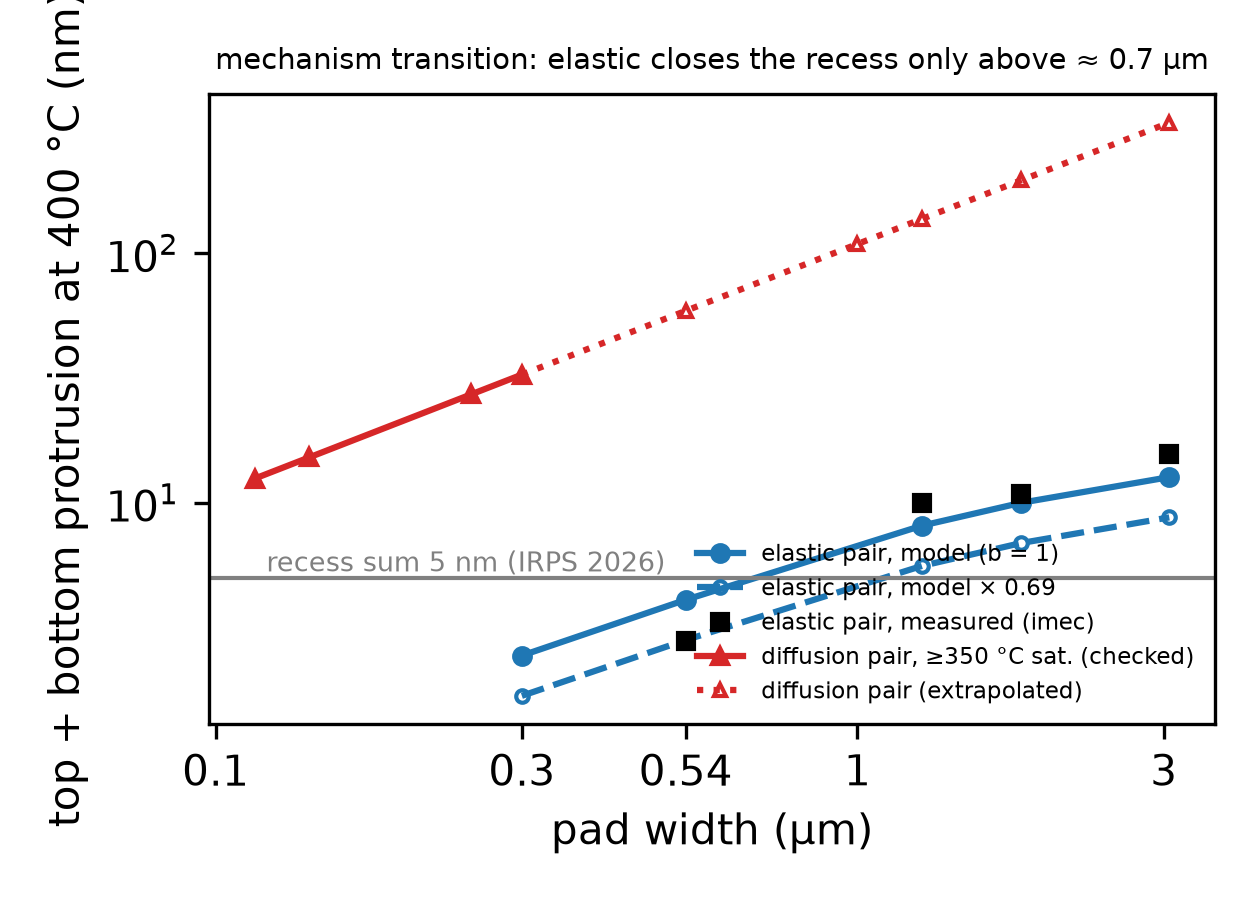
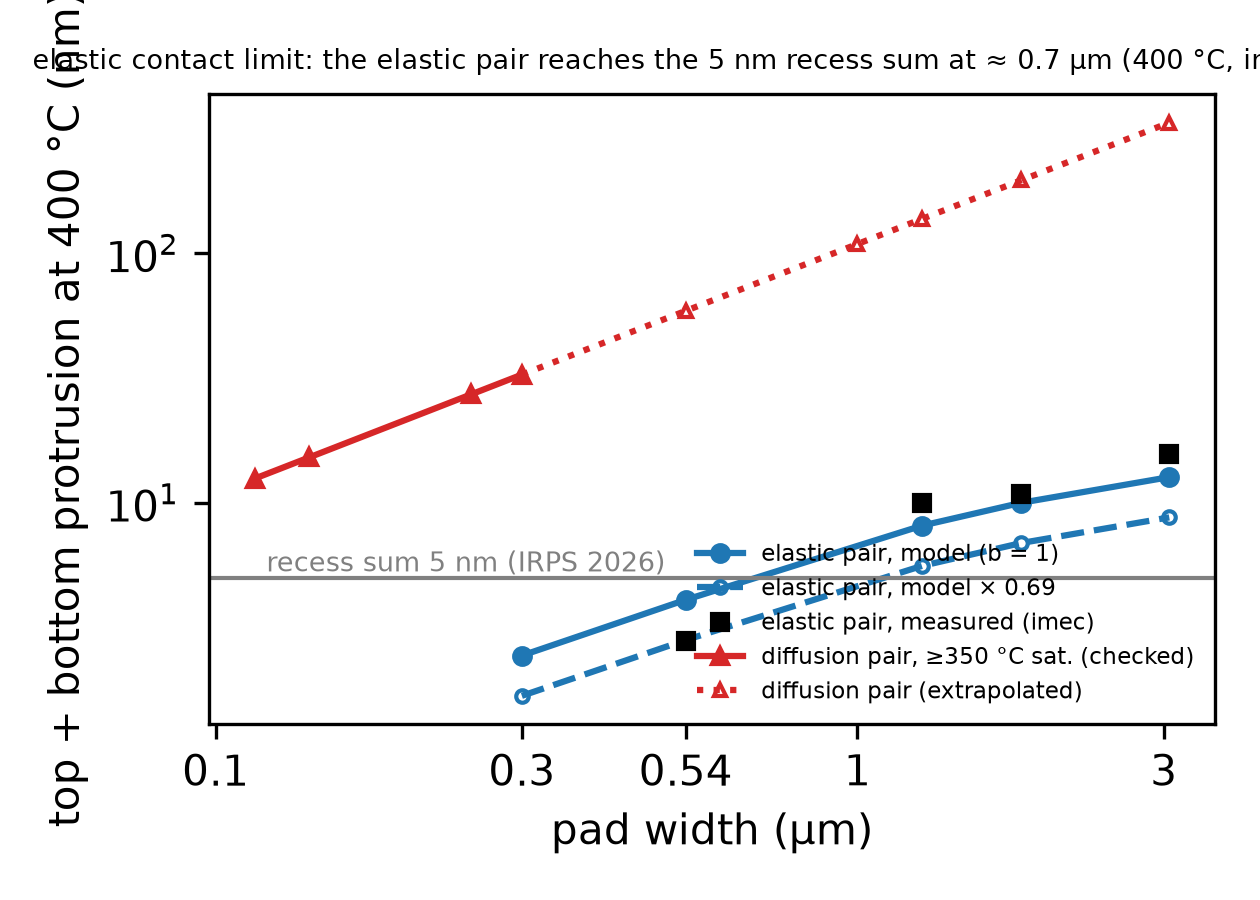
Paper draft v4 and consistency corrections: 0.7 um = elastic contact limit (crossover is an extrapolated prediction), same-setting interface matrix, f(omega) variant set with probability vs worst-orientation windows, diffusion counts corrected (5/5 PPA, 8/9), beta=1/4 rejection recorded; corrections

Changed region(s): [[0.031, 0.0311, 1.0, 0.0933]]

diff --git a/src/stage2/stage2_paper_results.py b/src/stage2/stage2_paper_results.py
@@ -95,7 +95,7 @@ def main():
     ax.axhline(RECESS_SUM, color="gray", lw=1); ax.text(0.12, RECESS_SUM + 0.3, "recess sum 5 nm (IRPS 2026)", fontsize=6.5, color="gray")
     ax.set_xscale("log"); ax.set_yscale("log"); ax.set_xlabel("pad width (µm)"); ax.set_ylabel("top + bottom protrusion at 400 °C (nm)")
     ax.set_xticks([0.1, 0.3, 0.54, 1, 3]); ax.set_xticklabels(["0.1", "0.3", "0.54", "1", "3"]); ax.minorticks_off()
-    ax.legend(fontsize=5.5, frameon=False, loc="lower right"); ax.set_title("mechanism transition: elastic closes the recess only above ≈ %.1f µm" % D_el_meas, fontsize=7)
+    ax.legend(fontsize=5.5, frameon=False, loc="lower right"); ax.set_title("elastic contact limit: the elastic pair reaches the 5 nm recess sum at ≈ %.1f µm (400 °C, imec data)" % D_el_meas, fontsize=6.5)
     fig.tight_layout(); fig.savefig(FIG / "s2_mechanism_transition.png", dpi=300); plt.close(fig)
     fig, axs = plt.subplots(1, 2, figsize=(7, 2.9), sharey=True)
     for ax, surf, title in zip(axs, ("clean", "oxidised"), ("clean surface (main)", "surface oxide not controlled")):

diff --git a/docs/paper/ieie2026f_plan_and_draft_ko.md b/docs/paper/ieie2026f_plan_and_draft_ko.md
@@ -6,16 +6,22 @@
 
 공고에는 배점이 없다. 블라인드 서면 심사 + 구두 발표 합산이므로 4쪽 안에서 (1) 문제가 왜 중요한지 한 문단, (2) 무엇이 새로운지 세 줄, (3) 방법의 신뢰성(검증 절차), (4) 정량 결과와 그림, (5) 한계를 숨기지 않는 태도가 읽혀야 한다. 학부생 경진대회 수상작은 대개 "작지만 끝까지 검증된 결과 + 좋은 그림 + 분명한 기여 문장"이다. 우리 강점은 **사전등록(결과를 보기 전에 기준 커밋)으로 검증한 공학 모델**이라는 점과, 반도체 패키징의 현안(200–400 nm 피치 하이브리드 본딩)을 다룬다는 점. 약점은 "검증 실패가 많다"는 인상 — 이를 "지배 기구가 바뀐다는 증거"로 재배치하는 것이 포장의 핵심이다.
 
-## 1. 핵심 메시지 — v3 (2026-10-16, 에이전트 라운드 통합 후)
+## 1. 핵심 메시지 — v4 (2026-10-16, 정합성 라운드 후; 10/19 제출본 기준)
 
-선행연구가 이미 말한 것: "sub-µm에서는 bulge-out이 접촉을 만든다"(imec), "[111] 기준 recess 사양"(Ayoub). 우리가 더한 것은 **세 그룹의 실측을 하나의 사전등록 모델로 교차 시험해 얻은 네 가지 정량 결론**이다.
+**연구 질문.** 패드별 결정방위를 모르는 실제 공정에서, 열탄성과 표면확산을 함께 고려한 Cu–Cu 접촉 조건은 어디까지 안정적으로 판정할 수 있는가?
 
-**핵심 메시지.** "문헌 물성 열탄성 FEM + 실측 점검 표면확산 항을 사전등록 V&V로 교차 시험하면, (1) 접합 계면 조건에서 접촉 기구는 패드 폭 ≈ 0.7 µm(recess 합 5 nm; 3→8 nm에서 0.55→1.0 µm)에서 열탄성→표면확산으로 넘어가고, 탄성 항은 구속 계수 C(h/w) 한 곡선으로 모든 공정·크기에 대해 ±20 %로 예측된다(사전등록 통과); (2) 측벽·캡 계면 상태는 공정 입력이다 — imec·NYCU 돌출은 접합을 요구하고, ST/Leti 공정은 두 독립 관찰(Ayoub 300 nm 변형률 부호, Lhostis 두께 효과)이 모두 이완 계면을 가리킨다(held-out 폭 규칙 통과); (3) sub-µm에서 결정 방위는 탄성 항(폭 4 %)이 아니라 표면확산 항(<111> facet)을 통해 들어오며, 300 nm의 P ≥ 0.99 공정창은 어닐이 아니라 <111> 꼬리 모양이 정한다(대립 Cu 미접촉 하한 10⁻³–10⁻², fg-Cu 0); (4) 확산 항의 유효 활성화에너지는 문헌 저온값 13 kcal/mol이며(마스터 커브), 등크기 패드 항은 cavity/pad ≤ 0.5 구조로 전이되지 않는다(held-out 0/7) — 적용 범위는 등크기 접합이다."
+**핵심 메시지.** "문헌 물성 열탄성 FEM과 실측으로 점검한 표면확산 항을 사전등록 V&V로 시험하면, 300 nm 패드의 어닐 조건은 (A) 탄성만으로 접촉, (B) 확산이 있어야 접촉하며 모든 모델 불확실성에서 유지, (C) 모델·꼬리 가정에 따라 판정이 갈림의 세 영역으로 나뉜다. 접합 계면에서 (A)는 비어 있고(탄성 접촉 한계 ≈ 0.7 µm), 청정 표면 250 °C·2 h, 300 °C ≥ 30 min, ≥ 350 °C는 (B)다. 다만 이것은 균일 방위 확률 기준이며, 방위 분포 가정을 빼고 최악 방위로 보면 결론은 측정되지 않은 한 값 — 정확히 <111>인 패드의 bulge-out f(0) — 에 달려 있다."
 
-세 가지 기여(서론 끝):
-1. **교차 검증된 결합 모델과 두 설계 규칙.** 열탄성 FEM(NYCU·imec 돌출로 학습·테스트, 측벽 판별)과 표면확산 항(imec 2026 bulge-out)을 결과 보기 전 기준으로 테스트했다. 설계 규칙 ①: 전환 폭 = f(recess 합) — 3/5/8 nm에서 0.55/0.70/1.0 µm. 설계 규칙 ②: 탄성 돌출 u = C(h/w, E_d)·Δα·ΔT·h, C = c₀/[1 + a(E_d/E_Cu)(h/w)^1.5] — 미사용 기하 4개에서 ±20 % 통과(X35–X38, 사전등록). 0.54 µm의 −35 %는 어떤 탄성 인자(라이너 두께 포함, X30–X34)로도 안 나오는 고립 이상점.
-2. **계면 상태 = 공정 입력.** 접합 모델은 Lhostis의 폭 효과(110 vs 330 nm, held-out 통과)를, 이완 계면은 두께 효과(650 nm 닫힘/220 nm void)와 Ayoub 300 nm 부호를 준다. imec·NYCU는 접합, ST/Leti는 이완 — 같은 모델, 다른 계면 입력. 가설이지만 세 데이터셋이 한 방향이다.
-3. **300 nm 설계값과 그 한계.** 공정창(청정 250 °C × 2 h / 300 °C × 30 min; b·τ₀·Q 불확실 빗금), CMP recess 허용 합 7.5–11.5 nm, 방위 하한(대립 Cu 1.4 × 10⁻³…, fg-Cu 0 → 체인 길이 상한 ≈ 500 링크), 인자 순위. 확산 항은 ≥ 250 °C·등크기에서만 실측 일치(Q_eff 13 kcal/mol, 250 °C × 7.9 h ≡ 350 °C × 1 h), 200 °C·불균등 패드는 범위 밖.
+**두 경계를 구분한다.**
+- 탄성 접촉 한계: u_t + u_b = r_t + r_b. 400 °C·recess 합 5 nm에서 imec 실측 기준 ≈ 0.70 µm(3/8 nm → 0.55/1.0 µm). 지금까지 "기구 전환"이라 부른 0.7 µm는 이것이다.
+- 기여도 역전: h_t + h_b = u_t + u_b. 확산 진폭(∝ D)과 동역학(τ ∝ D^3.7)이 경쟁해 어닐 조건에 따라 0.74 µm(250 °C 2 h)–2.45 µm(400 °C 2 h)로 예측되지만, 확산 데이터는 D ≤ 300 nm뿐이므로 **외삽 예측**이다. 300 nm에서는 어느 확산 형태로도 확산 돌출이 탄성의 약 20배다(350 °C 1 h: 쌍 31–33 vs 1.6 nm).
+
+**기여 세 가지(서론 끝).**
+1. **탄성 접촉 한계의 정량 규칙과 대리식.** 두 그룹(NYCU·imec) 돌출 실측으로 학습·테스트한 열탄성 FEM에서, 탄성 접촉 한계를 recess 조건부 규칙으로 제시했다(400 °C, 3/5/8 nm → 0.55/0.70/1.0 µm). 등방(Hill) 탄성 돌출은 구속 계수 대리식 C(h/w)가 imec·NYCU 적층의 미사용 기하 4개에서 ±20 % 안에 들었다(사전등록). 0.54 µm 실측(측정/모델 0.61–0.69, 전 온도)은 이 곡선 밖의 고립점이며, 라이너 두께 가설까지 시험해 탄성 기하 인자로는 설명되지 않음을 보였다.
+2. **계면 조건을 하나의 설정으로 평가.** ST/Leti 공정의 네 정성 관측(Ayoub 3 µm·300 nm 변형률 부호, Lhostis 폭·두께 효과)을 같은 설정으로 평가하면 "측벽 미끄럼 + 캡 하중 비전달"만 넷을 모두 만족하고 접합은 둘을 실패한다. imec·NYCU 돌출은 같은 미끄럼 설정에서 1.7–3.5배 과대예측해 접합을 요구한다. 따라서 Cu–라이너 측벽 계면 상태는 공정별 입력이며, ST/Leti의 이완은 정성 관측 넷과 일관한 **후보 가설**이다(패드 10 기울기 40 % 과소 등 정량 불일치는 남음).
+3. **방위 미지 조건의 공정창: 확률 기준과 최악 방위 기준.** DM2026 분포의 판독 가능한 범위(누적 ≥ 0.5 %)와 일관된 방위 함수 f(ω) 4종 × 탄성 계수 b × 확산 동역학 τ₀·Q의 모든 조합에서 위 (B) 9셀이 유지되고 5셀은 판정이 갈린다. 최악 방위 기준은 방위 분포 가정만 제거하며, f(0) = 0이면 어떤 어닐로도 최악 쌍은 닫히지 않고(허용 recess 0.5–0.9 nm/패드), f(0) = 0.25이면 300 °C·2 h 또는 350 °C·30 min 이상에서 닫힌다. 확률 기준 허용 recess는 3.5–9 nm/패드다. **f(0)의 측정이 방위 위험을 확정하는 다음 실험**이다.
+
+**주장하지 않는 것.** 기구 역전의 실측 검증, Ayoub 300 nm 변형률 크기 재현, 확산 항 검증 통과(사전등록 시험 3회 모두 NOT VALIDATED, 적용 범위 = 등크기 패드·≥ 250 °C), 관측 범위 아래 꼬리·f(0), "검증된 레시피".
 
 ## 2. 논문 구성 (프로시딩 ≤ 5쪽 / 서면 심사용 4쪽)
 
@@ -24,7 +30,7 @@
 | 요약 | 한국어 요약 150–200자 + 영문 제목 | — |
 | I. 서론 | 피치 스케일링(200 nm, imec 2026) → 탄성 팽창 sub-nm → 접촉 기구 문제. 선행연구 역할 분담(Ayoub 변형률, Lin/Chen 돌출, imec bulge-out, Van Huylenbroeck recess·수율)과 빈 자리(세 요소를 한 공정창으로 묶어 검증한 연구 없음). 기여 3개. | Fig. 1 모델 구조·V&V 흐름 |
 | II. 모델과 검증 절차 | 2.1 용어(recess/u/ε′zz/h_d)와 접촉 조건 m = u_t+u_b+h_t+h_b−(r_t+r_b). 2.2 열탄성 FEM(ANSYS, 이방성 Cu, 접합 측벽, 배열 셀, 공정별 유전체 1회 학습). 2.3 표면확산 항 h_d = s_ox·0.0022(θ_eff−90°)·D·f(ω)·[1−e^(−t/τ)], τ ∝ D^3.7/Ds(T), f(ω) facet 모델. 2.4 ASME V&V 10 순서와 사전등록(train/test 분할, 통과 기준, 커밋 해시) | Table 1 데이터와 역할 |
-| III. 결과 | 3.1 탄성 모델 train/test(Table 2) + 측벽 판별 + 0.54 µm 실패 → 기구 전환(Fig. 2). 3.2 확산 항 test(Fig. 3): 고정형 2/17 → 개정 11/17, ≥250 °C 10/10, 방위 항으로 IQR 10/17. 3.3 Ayoub 변형률(3 µm 부호 일치, 300 nm 크기 일치·부호 반대 → 계면 가설 한 문장). 3.4 300 nm 공정창(Fig. 4), recess 허용 사양(Fig. 5), 인자 순위·방위 하한(Fig. 6), 연결 단계 접촉면적·압력 한 문단 | Fig. 2–6, Table 2–3 |
+| III. 결과 | 3.1 탄성 모델 train/test(Table 2) + 측벽 판별 + 0.54 µm 실패 → 탄성 접촉 한계(Fig. 2). 3.2 확산 항 test(Fig. 3): 고정형 2/17 → 개정 11/17, ≥250 °C 10/10, 방위 항으로 IQR 10/17. 3.3 Ayoub 변형률(3 µm 부호 일치, 300 nm 크기 일치·부호 반대 → 계면 가설 한 문장). 3.4 300 nm 공정창(Fig. 4), recess 허용 사양(Fig. 5), 인자 순위·방위 하한(Fig. 6), 연결 단계 접촉면적·압력 한 문단 | Fig. 2–6, Table 2–3 |
 | IV. 한계와 결론 | 검증된 것/안 된 것/탐색 표(Table 3), 한계 6개, 결론 3줄 | Table 3 |
 | 참고문헌 | 영문 15편 | — |
 
@@ -47,49 +53,47 @@
 | Table 2 | 탄성 모델 train/test 결과: 크기, T, 모델, 측정, 허용, 통과 | `validation_rev1.csv`, adopted_rev.json | |
 | Table 3 | 모델 부분별 상태: 검증 통과 / 실패 / 탐색, 근거 커밋 | 보고서 §14 | |
 
-## 4. 원고 초안 — 프로시딩용 (한국어 본문, 영문 그림·표·참고문헌)
+## 4. 원고 초안 — 프로시딩용 (한국어 본문, 영문 그림·표·참고문헌) — v4
 
-**제목(국문):** 서브마이크론 Cu 하이브리드 본딩 패드의 접촉 기구 전환과 300 nm 공정창 예측: 사전등록 검증 기반 열탄성–표면확산 모델
-**Title:** Mechanism Transition and 300 nm Process-Window Prediction for Sub-Micron Cu Hybrid-Bonding Pads: A Pre-Registered Thermo-Elastic/Surface-Diffusion Model
+**제목(국문):** 결정방위를 모르는 서브마이크론 Cu 하이브리드 본딩의 접촉 판정: 열탄성 접촉 한계와 표면확산을 고려한 300 nm 공정창의 사전등록 검증
+**Title:** Contact Prediction for Sub-Micron Cu Hybrid Bonding under Unknown Crystal Orientation: Elastic Contact Limit and a Pre-Registered Thermo-Elastic/Surface-Diffusion Process Window at 300 nm
 
-**요약.** Cu/유전체 하이브리드 본딩의 패드 피치가 1 µm 아래로 줄면 어닐 중 Cu 열탄성 팽창이 패드당 1 nm 수준으로 작아져 CMP recess(패드당 2–3 nm)를 닫지 못한다. 본 논문은 문헌 물성만으로 구성한 ANSYS 열탄성 FEM과 표면확산 bulge-out 해석식을 결합한 모델을 ASME V&V 10-2019 순서(수치 검증–학습–테스트–예측)로 평가하되, 모든 테스트 기준을 결과를 보기 전에 공개 저장소에 커밋(사전등록)하였다. 열탄성 모델은 서로 다른 두 연구그룹의 1–3 µm 패드 돌출 실측을 nm 단위로 재현하고 측벽 계면이 접합 상태임을 판별했으나, 0.54 µm에서는 전 온도에서 +46 % 과대예측하여 연속체 탄성이 지배 기구에서 벗어남을 보였다(전환 크기 ≈ 0.7 µm). 결정 방위 의존 진폭을 갖는 표면확산 항은 imec의 115–300 nm 패드 bulge-out 분포를 250 °C 이상에서 재조정 없이 재현했고(중앙값 10/10, 분포 폭은 방위 항이 있어야 재현), 200 °C 큰 패드에서는 과소예측하여 보수적이다. 이 모델로 300 nm 패드의 접촉 확률 공정창(청정 표면 250 °C·2 h 또는 300 °C·30 min), CMP recess 허용 합(7.5–11.5 nm), <111> 방위에 의한 미접촉 쌍 하한(≈1.4 × 10⁻³)과 인자 순위를 불확실도와 함께 제시한다.
+**요약.** Cu/유전체 하이브리드 본딩에서 패드가 작아지면 어닐 중 열탄성 돌출만으로는 CMP recess를 닫지 못하고 표면확산 bulge-out이 접촉을 만든다. 본 논문은 문헌 물성으로 구성한 ANSYS 열탄성 FEM과 표면확산 해석식을 결합하고, ASME V&V 10 순서로 모든 테스트 기준을 결과 계산 전에 공개 저장소에 커밋하여 평가하였다. 접합 계면에서 위·아래 탄성 돌출 합이 recess 합 5 nm를 넘는 최소 패드 폭(탄성 접촉 한계)은 400 °C에서 약 0.7 µm이며, 등방 탄성 돌출의 구속 계수 대리식은 미사용 형상 4개에서 ±20 % 안에 들었다. ST/Leti 공정의 정성 관측 넷은 측벽 미끄럼·캡 하중 비전달 설정에서만 모두 일관되어, 계면 상태를 공정별 입력으로 두어야 함을 보였다. 판독 가능한 bulge-out 분포와 일관된 방위 함수와 모델 불확실성 전체에서, 300 nm 패드는 청정 표면 250 °C·2 h, 300 °C·30 min 이상에서 접촉 확률 0.99 이상을 유지하나, 최악 방위 기준의 결론은 측정되지 않은 <111> 패드의 bulge-out에 의존한다.
 
 ### I. 서론
 
-웨이퍼 간(W2W) Cu/SiCN 하이브리드 본딩은 200 nm 피치까지 전기적 수율이 보고되었다[1]. 이 영역에서는 접합 후 어닐 중 Cu 패드의 열탄성 팽창이 패드 부피에 비례해 줄어 1 nm 이하가 되며, 상·하 패드의 Cu–Cu 접촉은 표면확산에 의한 Cu 원자의 재배치("bulge-out")가 만든다[2,3]. 따라서 1 µm 아래에서는 "어떤 recess에서 닫히는가"가 아니라 "어떤 어닐·표면·라이너·방위 조건에서 닫히는가"가 공정 설계 질문이 된다.
+웨이퍼 간(W2W) Cu/SiCN 하이브리드 본딩은 200 nm 피치까지 전기적 수율이 보고되었다[1]. 패드가 작아지면 어닐 중 Cu의 열탄성 팽창은 1 nm 수준으로 줄고, 상·하 패드의 접촉은 표면확산에 의한 Cu 원자의 재배치(bulge-out)가 만든다[2,3]. 이때 공정 설계 질문은 "어느 recess에서 닫히는가"에서 "어떤 어닐·표면 조건에서, 패드마다 다른 결정방위를 모르는 채로, 얼마나 확실히 닫히는가"로 바뀐다.
 
-본 논문은 어닐 중 Cu 패드가 위로 솟는 양을 두 기구의 합으로 본다. (i) 열탄성 팽창 u: Cu와 유전체·Si의 열팽창 차이로 생기며 패드 부피에 비례하고, 식으면 되돌아간다. (ii) 표면확산 bulge-out h_d: 표면에너지·응력 구배를 줄이려고 Cu 원자가 패드 가장자리에서 중앙으로 이동해 생기며 어닐 온도·시간·표면 상태·결정 방위에 의존하고, 되돌아가지 않는다. 접촉 조건은 두 기구의 위·아래 합이 recess 합을 넘는 것이다. 두 기구는 패드 크기에 다르게 반응하므로, 어느 쪽이 접촉을 결정하는지가 크기에 따라 바뀐다 — 이 전환을 정량화하는 것이 본 연구의 출발점이다.
+본 논문은 어닐 중 Cu 패드가 솟는 양을 두 기구의 합으로 본다. (i) 열탄성 돌출 u: Cu와 유전체·Si의 열팽창 차이로 생기며 측벽 구속에 크게 좌우되고, 식으면 되돌아간다. (ii) 표면확산 bulge-out h_d: 표면에너지 구배를 줄이려 Cu 원자가 패드 중앙으로 이동해 생기며 어닐 온도·시간·표면 상태·결정 방위에 의존하고, 되돌아가지 않는다. 접촉 여유는 m = u_t + u_b + h_d,t + h_d,b − (r_t + r_b)이며, 두 경계를 구분한다: 탄성 접촉 한계(u_t + u_b = r_t + r_b)와 기여도 역전(h_d,t + h_d,b = u_t + u_b).
 
-선행연구는 역할이 나뉘어 있다. Ayoub 등[4]은 300 nm 패드의 Laue 미세회절 편차 변형률과 COMSOL 해석으로 결정 방위에 따른 탄성 차이를 보였고, Lin·Chen 등[5,6]은 in-situ AFM으로 1–9 µm 패드의 돌출을 직접 쟀으며, imec[2,3,7]은 접합 후 상부 웨이퍼를 제거하고 수천 개 패드의 bulge-out 분포를 AFM·EBSD로 측정했다. 그러나 열탄성·표면확산·연결 단계를 하나의 공정창으로 묶고, 그 모델의 각 부분을 독립 실측으로 검증한 연구는 없다. 또한 기존 FEM은 벌크 물성으로 sub-µm 실측을 재현하지 못한다는 보고가 있다[8].
+선행연구는 역할이 나뉘어 있다. Ayoub 등[4]은 300 nm 패드의 Laue 편차 변형률로 방위에 따른 탄성 차이를, Lin·Chen 등[5,6]은 in-situ AFM으로 1–9 µm 패드 돌출을, imec[2,3,7]은 수천 개 패드의 bulge-out 분포와 방위(EBSD)를 측정했다. Lhostis 등[12]은 같은 ST/Leti 계열 공정에서 패드 폭·두께에 따른 계면 닫힘을 HRTEM으로 보였다. 그러나 이 관측들을 하나의 모델 설정으로 함께 평가하고, 방위를 모르는 조건에서 접촉 판정이 어디까지 안정한지를 정량화한 연구는 없다.
 
-본 연구는 (1) 문헌 물성만으로 구성한 ANSYS 열탄성 FEM을 두 연구그룹의 돌출 실측으로 학습(train)·테스트(test)하고, (2) 표면확산 항에 결정 방위 의존 진폭을 도입하여 imec 2026 bulge-out 분포로 테스트하며, (3) 그 결과로 300 nm 패드의 공정창을 접촉 확률로 예측한다. 모든 테스트 기준(파라미터, 데이터 분할, 통과 규칙)은 결과를 보기 전에 공개 저장소에 커밋하였고, 테스트 데이터로의 재조정은 하지 않았다. 기여는 다음 세 가지다. ① 세 연구그룹의 실측으로 교차 검증한 결합 모델에서, 접촉 기구가 열탄성에서 표면확산으로 넘어가는 폭을 recess 조건부 규칙으로 정량화했다(recess 합 3/5/8 nm에서 0.55/0.70/1.0 µm). ② sub-µm에서 결정 방위의 효과는 탄성 항(폭 4 %)이 아니라 표면확산 항(<111> facet, 폭 10배)을 통해 들어오며, 이 항이 imec bulge-out 분포의 폭과 꼬리를 재조정 없이 재현함을 보였다 — 방위 위험은 Ayoub가 제안한 recess 사양이 아니라 어닐·미세구조로 다뤄야 한다. ③ 300 nm 공정창, CMP recess 허용 사양, 방위에 의한 미접촉 하한과 인자 순위를 불확실도와 함께 제시하고, 탄성 모델의 0.54 µm 오차가 이 결론을 바꾸지 않음을 보였다.
+기여는 세 가지다. ① 열탄성 FEM을 두 그룹의 돌출 실측으로 학습·테스트해 탄성 접촉 한계를 recess 조건부 규칙으로 제시하고(400 °C, recess 합 3/5/8 nm → 0.55/0.70/1.0 µm), 등방 탄성 대리식 C(h/w)를 미사용 형상으로 검증했다. ② ST/Leti의 네 정성 관측을 같은 계면 설정으로 평가해, 측벽 미끄럼·캡 하중 비전달 설정만 모두와 일관함을 보이고 계면 상태를 공정별 입력으로 두었다. ③ 관측 분포와 일관된 복수의 방위 함수와 모델 불확실성 전체에서 300 nm 공정창을 "유지되는 영역"과 "판정이 갈리는 영역"으로 나누고, 확률 기준과 최악 방위 기준을 함께 제시했다.
 
 ### II. 모델과 검증 절차
 
-**2.1 용어와 접촉 조건.** recess r는 CMP 후 Cu 윗면이 유전체 면보다 낮은 깊이(공정 입력), u는 어닐 중 열탄성 돌출(모델 출력), h_d는 표면확산 bulge-out 높이(패드 자기 표면 기준), ε′zz는 Laue가 재는 편차 탄성 변형률이다. 상·하 패드가 닿는 조건은 접촉 여유 m = u_t + u_b + h_d,t + h_d,b − (r_t + r_b) ≥ 0 이며, 방위와 recess를 확률 변수로 두고 P(m ≥ 0)을 Monte Carlo로 계산한다(Fig. 1).
+**2.1 용어와 접촉 조건.** recess r(CMP 후 Cu 윗면이 유전체 면보다 낮은 깊이, 입력), u(열탄성 돌출, 중앙 50 % 면적 평균 − 주변 유전체), h_d(bulge-out, 패드 자기 표면 기준), ε′zz(Laue 편차 탄성 변형률)를 섞지 않는다. 방위와 recess를 확률 변수로 두고 P(m ≥ 0)를 Monte Carlo로 계산하며(표본 수는 수치 해상도이지 데이터가 아니다), 방위 분포 가정을 뺀 최악 방위 최소 여유 m_min도 함께 계산한다.
 
-**2.2 열탄성 FEM.** ANSYS MAPDL(µMKS). 원형 Cu 패드, 측벽 테이퍼, Ta 라이너 링·바닥, 유전체, Si 기판등가층. 작은 패드(≤0.54 µm)는 3D SOLID185(O-grid)에 Cu 탄성상수 C11/C12/C44 = 168.4/121.4/75.4 GPa를 결정 방위로 회전한 이방성, 큰 다결정 패드는 2D 축대칭 Hill 등방(128 GPa, 0.345). α_Cu = 16.5 ppm/K. 측벽은 접합(절점 공유)을 기본으로 하고 미끄럼(법선만 구속)을 대조군으로 둔다. 셀은 배열 피치(2D 등면적 2.26 w) 또는 고립 12 w. "같은 모델"의 뜻: 물리 규칙·Cu 물성·경계조건·메시 규칙은 모든 시료에 같고, 형상·라이너·유전체 종류·피치·열이력만 시료별 입력이다. 유전체 E·α는 공정당 한 번, 큰 패드에서만 문헌 범위 안에서 학습한다(NYCU SiO2 59 GPa·1.0 ppm/K·테이퍼 18°, imec SiCN 120 GPa·2.0 ppm/K). 돌출 u는 중앙 50 % 면적 평균 − 주변 유전체 평균(AFM 정의와 동일). 수치 검증: 단위(해석해와 자릿수 일치), 이방성 12방위 1 % 안, 메시 ×2 0.02 %, 셀 수렴, 3D–2D 0.1–0.7 %.
+**2.2 열탄성 FEM.** ANSYS MAPDL. 원형 Cu 패드, 라이너 링·바닥층, 유전체, Si 기판등가층. 작은 패드는 3D(입방 탄성텐서를 결정 방향으로 회전한 이방성 Cu), 큰 다결정 패드는 2D 축대칭 Hill 등방. 계면 조건 두 가지: 접합(절점 공유)과 미끄럼(Cu 측벽 절점을 복제해 라이너와 법선 변위만 묶음 — 접선 무마찰·무분리; 라이너–유전체는 항상 접합). 미끄럼은 측벽 전단 비전달 경계조건이며 박리·손상을 모사한 것이 아니다. 같은 물리 규칙·Cu 물성·경계조건·메시 규칙을 모든 시료에 쓰고, 형상·라이너·유전체·피치·열이력만 시료별 입력이다. 유전체 E·α는 공정당 한 번, 큰 패드에서만 학습한다(NYCU SiO2 59 GPa·1.0 ppm/K, imec SiCN 120 GPa·2.0 ppm/K).
 
-**2.3 표면확산 항.** DM2024[7]의 선형화를 따라 패드당
-h_d = s_ox · 0.0022·(θ_eff − 90°)·D · f(ω) · [1 − exp(−t/τ)], τ = τ₀ (D/200 nm)^3.7 · D_s(350 °C)/D_s(T) ... (1)
-D는 패드 지름, t 어닐 시간, D_s는 Cu 표면확산계수(Q = 20.7 kcal/mol[9]), τ₀ = 60 s, s_ox는 표면 산화 배율(청정 1, 산화 0.45[2]). 방위 의존 진폭 f(ω) = clip((ω − ω_c)/Δω, 0, 1)은 패드 법선과 가장 가까운 <111> 사이 각 ω로 정의한다: fcc Cu에서 {111}이 최저 표면에너지라 <111> 패드는 평평한 면을 유지해 곡률 구동력을 잃는다[3]. Cu 표면확산계수의 방위 이방성은 (111)이 (100)보다 1.5–3배 빠른 쪽이므로[9] 꼬리는 동역학이 아니라 진폭으로 넣는다.
+**2.3 표면확산 항.** DM2024[7]의 선형화를 따라 h_d = s_ox·0.0022(θ_eff − 90°)·D·f(ω)·[1 − exp(−t/τ)], τ = τ₀(D/200 nm)^3.7·D_s(350 °C)/D_s(T) ... (1). D 패드 지름, s_ox 표면 산화 배율(청정 1, 산화 0.45[2]), f(ω)는 패드 법선과 최근접 <111> 사이 각 ω의 방위 함수다({111}이 최저 표면에너지라 <111> 근방 패드는 곡률 구동력이 작다[3]). f(ω)는 관측 분포와 일관된 4종(계단·완만 경사·바닥값 0.25·Fig. 5a형 비관 계단)을 함께 쓴다.
 
-**2.4 검증 절차와 사전등록.** ASME V&V 10-2019 순서를 따랐다. 학습 데이터는 큰 패드(NYCU 9·3 µm[5], imec 1.80·3.06 µm[2]), 테스트는 imec 1.26·0.54 µm, NYCU 1 µm[5,6], 미끄럼 대조군(V4)이다. 확산 항은 imec 2026[3]의 400 nm 피치·350 °C 한 점에서 진폭만 학습하고 나머지 17점(피치 200–500 nm, 200–450 °C, 1–4 h)으로 테스트했다(점별 허용 max(1.5 nm, 25 %, 판독 오차), ≥80 % 통과 + 온도 경향 + 350 °C 이상 포화). 방위 항은 EBSD가 있는 500 nm 피치에서 학습하고 나머지로 테스트했다(데이터를 이미 본 뒤의 2차 탐색으로 표기). 각 규칙은 결과 계산 전에 git 커밋으로 고정했고(Table 1), 테스트 실패 시 문서화된 개정 1회만 허용했다.
+**2.4 검증 절차와 사전등록.** 학습은 큰 패드(NYCU 9·3 µm, imec 1.80·3.06 µm), 테스트는 imec 1.26·0.54 µm, NYCU 1 µm, 미끄럼 대조군이다. 확산 항은 imec 2026 400 nm 피치·350 °C 한 점에서 진폭만 학습하고 나머지 17점으로, 이후 미사용 DM2023 7점으로 테스트했다. 계면 조건은 ST/Leti 관측 넷을 같은 설정으로 평가하는 규칙을 먼저 고정했다. 모든 규칙은 계산 전 git 커밋으로 고정했고, 테스트 실패 시 문서화된 개정 1회만 허용했다(Table 1).
 
 ### III. 결과
 
-**3.1 열탄성 모델: 학습·테스트와 기구 전환.** Table 2에 결과를 요약했다. 학습값은 모두 문헌 범위의 끝(bound-limited)이었다. 테스트에서 NYCU 1 µm(모델 1.79–1.94 vs 실측 2.1 ± 0.4 nm)와 imec 1.26 µm 100–200 °C, 1.80 µm 전 온도는 통과했고, 미끄럼 측벽 대조군은 1 µm에서 1.7배, 0.54 µm에서 3.5배 과대예측하여 측벽이 접합 상태임이 판별되었다. 그러나 imec 0.54 µm는 100–400 °C 전 구간에서 측정/모델 비 0.61–0.69로 과대예측했다(비열적 오차; 단일 기하 가설 ≤7 %, 측정 정의 가설로도 모든 크기 동시 설명 불가). 사전 고정한 기준에 따라 탄성 모델은 0.54 µm에서 NOT VALIDATED로 동결했다. 탄성 결과 전체(FEM 167런, 실측 19점)는 구속 계수 C = u/[(α_Cu − α_Si)ΔT·h]가 종횡비 h/w의 한 함수 C = c₀/[1 + a(E_d/E_Cu)(h/w)^1.5](배열 셀 c₀ 1.95, a 2.2)로 붕괴하고, 사전등록한 미사용 기하 4개(X35–X38)에서 ±20 % 안에 들어 대리식으로 쓸 수 있다; 0.54 µm 실측만 곡선에서 이탈한다(측정/모델 0.61–0.69, 전 온도). 라이너 두께 15·25 nm(X30–X34)는 u를 바꾸지 않아(+0.3 %) 마지막 탄성 가설도 닫혔다. 이 결과를 recess와 함께 놓으면 기구 전환이 드러난다(Fig. 2). 절차는 다음과 같다: recess 합을 IRPS 2026 실측 평균 5 nm[10]로 고정하고, 크기별 열탄성 돌출 u를 공정 상한 400 °C에서 취해(실측: imec in-situ 0.54/1.26/1.80/3.06 µm; 모델: 같은 크기의 FEM), 위·아래 합 2u가 5 nm를 넘는 최소 크기를 log(크기) 보간으로 구한다. 실측 기준 ≈0.7 µm(0.54 µm에서 2.8 nm, 1.26 µm에서 10 nm 사이), 모델 기준 0.66 µm(b = 1)–1.06 µm(b = 0.69)이다. 그 아래에서는 공정 상한 온도에서도 탄성만으로는 접촉이 안 되며(300 nm, 400 °C: 패드당 ≈1 nm, 틈의 1/5), 실제로 200–400 nm 피치 본딩이 성립하는 것[1]은 다른 기구(표면확산)가 틈을 메운다는 뜻이다. 전환 크기는 recess 합과 어닐 온도의 함수이며(recess가 작거나 온도가 높으면 작아짐), 여기서는 그 기준 조건에서의 값이다.
+**3.1 탄성 모델과 탄성 접촉 한계.** 학습값은 모두 문헌 범위의 끝이었다. 테스트에서 NYCU 1 µm(모델 1.79–1.94 vs 실측 2.1 ± 0.4 nm), imec 1.80 µm 전 온도, 1.26 µm 100–200 °C가 통과했고, 미끄럼 대조군은 1 µm에서 1.7배, 0.54 µm에서 3.5배 과대예측해 이 두 공정의 측벽은 접합으로 판별되었다(Table 2). imec 0.54 µm는 100–400 °C 전 구간에서 측정/모델 0.61–0.69로 과대예측했다(온도 무관; 단일 기하 가설 ≤ 7 %, 라이너 15·25 nm는 u 불변). FEM 167런과 실측 19점은 구속 계수 C = u/[(α_Cu − α_Si)ΔT·h]가 종횡비의 한 함수 C = c₀/[1 + a(E_d/E_Cu)(h/w)^1.5]로 모이고, 이 대리식은 사전등록한 미사용 형상 4개에서 ±20 % 안에 들었다(Hill 등방, imec·NYCU 적층). 0.54 µm 실측만 곡선 밖에 있다. recess 합 5 nm[10]로 고정하고 400 °C 돌출의 위·아래 합이 그것을 넘는 최소 폭을 구하면 실측 기준 0.70 µm(0.54 µm 2.8 nm와 1.26 µm 10 nm 사이의 log 보간), 대리식 기준 0.76 µm이다(Fig. 2). 이 한계는 recess와 온도의 함수다: 400 °C에서 recess 합 3/8 nm → 0.55/1.0 µm, recess 합 5 nm에서 350/300/250 °C → 0.90/1.14/1.62 µm(대리식). 300 nm에서 탄성 돌출은 400 °C에서도 패드당 ≈ 1 nm로 recess 합의 1/5이다. 기여도 역전 폭은 식 (1)을 300 nm 밖으로 외삽해야 하므로 예측으로만 제시한다: 250 °C 2 h 0.74 µm, 350 °C 1 h 1.38 µm, 400 °C 2 h 2.45 µm.
 
-**3.2 표면확산 항 테스트와 유효 활성화에너지.** 고정형(θ = 123°, τ₀ 학습)은 17점 중 2점만 통과했다: 학습점(350 °C 1 h)이 동역학적으로 포화 상태라 진폭 오차가 τ₀로 잘못 흡수된 탓이다. 문서화된 개정 1(진폭 θ_eff 학습, τ₀ 60 s 고정)에서 θ_eff = 113.6°, 11/17 통과, 온도 경향 통과, 포화 비 경계 실패로 규칙상 NOT VALIDATED이나, 실패 6점은 모두 200 °C·D ≥ 250 nm 또는 자가 어닐 Cu의 **과소예측**이고 250 °C 이상 PPA-Cu 전 점과 ≤140 nm 패드 200 °C는 10/10 통과했다(Fig. 3). 즉 식 (1)은 250 °C 이상에서 실측과 맞고 200 °C에서는 보수적이다(측정의 2 h→4 h 증가율로 추정한 유효 활성화에너지 14–17 kcal/mol은 문헌 20.7보다 작다). 방위 항을 넣은 2차 탐색(θ_eff 119°, ω_c 5°, Δω 19.5°)은 중앙값 통과율을 바꾸지 않지만 분포 폭(IQR)을 10/17 재현하고 lagging tail(< 6.5 nm) 분율 8 %(실측 ≈ 10 %)를 준다 — 방위가 없는 모델의 IQR은 0이다. 사후 분석(마스터 커브): PPA-Cu 10점은 h = a·D·[1 − exp(−t_eff/τ₀)]에 Q_eff = 13.4 kcal/mol(CI 12.5–14.8; Butrymowicz 집계의 저온 전계방출값 13과 일치)로 한 곡선에 붕괴하고(rms 0.49 nm < 판독 오차 0.70), 등가 규칙 350 °C × 1 h ≡ 300 °C × 2.6 h ≡ 250 °C × 7.9 h를 준다; 자가 어닐 Cu는 진폭이 아니라 동역학이 3배 빠르다. 이 모델을 고정해 미사용 데이터(DM2023, cavity/pad ≤ 0.5)로 다시 테스트한 라운드 3는 0/7(개정 후 4/7)로 실패했다: 등크기 패드 항은 불균등 패드 구조로 전이되지 않는다(DM2023 자체의 '비율이 지배' 관찰과 일치) — 적용 범위는 등크기 접합이다.
+**3.2 표면확산 항: 시험 결과와 적용 범위.** 사전등록 고정형은 DM2026 17점 중 2점, 진폭 θ_eff를 학습한 개정 1은 11점을 통과해 규칙상 NOT VALIDATED이다. 실패는 200 °C·D ≥ 250 nm와 자가 어닐 Cu의 과소예측에 몰려 있고, ≥ 250 °C에서는 PPA-Cu 5/5, 전체 8/9가 허용오차 안이다(Fig. 3). 시간 의존: 200 °C 2 h→4 h 증가율 1.49 ± 0.13은 지수형 동역학과 양립하고, stretched exponential(β = 1/4; 두 배 증가율 상한 1.189)과는 2.3σ로 양립하지 않는다. 사후 분석에서 PPA-Cu 10점은 유효 활성화에너지 13.4 kcal/mol(문헌 저온값 13과 일치)로 한 곡선에 모였다. 이 형태를 고정해 미사용 DM2023(cavity/pad ≤ 0.5)으로 시험한 라운드 3는 0/7이었다: 등크기 패드 항은 불균등 구조로 전이되지 않는다. 따라서 식 (1)의 적용 범위는 등크기 접합·≥ 250 °C다. 방위: DM2026 분포의 판독 가능한 범위(누적 ≥ 0.5 %; 300 nm 패드 Fig. 3에서 6.5 nm 이하 3–4 %, 280 nm 패드 Fig. 5a에서 ≈ 10 %)와 일관된 f(ω) 4종은 모두 중앙값 11/17, IQR 13/17을 주며(방위 없는 모델 IQR 0), 몸통 폭 일부는 방위와 무관한 산포가 맡아야 한다. 정확히 <111>인 패드의 bulge-out f(0)과 누적 0.1 % 아래 꼬리는 관측되지 않았다.
 
-**3.3 계면 상태는 공정 입력이다 (Ayoub 변형률·Lhostis TEM).** 접촉 FEM으로 Lhostis 2024의 HRTEM 관찰을 시험했다: 접합 모델은 폭 효과(110 nm 폭 패드의 중심 void 분율 0.62 vs 360 nm 0.10, held-out 규칙 통과)를 재현하지만 두께 효과(650 nm 닫힘, 220 nm void)는 어떤 지표로도 내지 못한다(A_c·void 분율 차 ≤ 0.13; 접합 측벽이 두꺼운 패드의 수직 팽창을 절반으로 누르고 얇은 패드는 면내 압축 압출이 보태 u_rel ∝ w). 측벽을 이완(미끄럼)시키면 650 nm는 완전 닫힘(V 0.000/0.24), 220 nm는 void(0.15/0.54; r0 2/4 nm)로 두께 효과가 나온다. 같은 공정(ST/Leti Cu/SiO2)의 Ayoub 300 nm 변형률도 캡·측벽이 이완일 때만 부호가 맞는다(아래). imec·NYCU 돌출은 접합을 요구한다(V4). 따라서 계면 상태는 공정마다 다른 **입력**이며, 그 판별 자체가 모델의 쓸모다.  같은 적층(SiN 캡, Ta 13 nm)의 접합 모델은 3 µm 패드에서 ε′zz 부호가 실측[4]과 일치했고(−1.24 × 10⁻³ vs −0.35…−2 × 10⁻³), 300 nm에서는 두 방위(E_z 68·190 GPa)의 가열 기울기 크기가 0.5 % 안에 들되 부호가 반대였다. Ayoub 시료는 다른 공정(Cu/SiO2, CMP 후 PECVD SiN 캡)이고 Cu 계면 조건이 명시돼 있지 않으므로 계면 상태 차이(캡·측벽)로 해석하되 가설로 둔다. 크기 재현은 주장하지 않는다.
+**3.3 계면 조건: 같은 설정으로 본 ST/Leti 관측.** Ayoub 3 µm 부호는 접합·미끄럼(캡 유무) 모두 일치한다(−1.23 … −1.27 × 10⁻³). Ayoub 300 nm 부호는 측벽 미끄럼에 캡까지 하중을 전달하지 않을 때만 맞는다(접합 캡을 두면 측벽 미끄럼만으로는 반대 부호). Lhostis 폭 효과(110 nm 폭의 중심 공극이 360 nm보다 큼)는 접합(공극 분율 0.62 vs 0.10)과 미끄럼(0.35 vs 0.15) 모두 재현되고, 두께 효과(650 nm 닫힘·220 nm 공극)는 미끄럼에서만 나온다(접합은 공극 분율 차 ≤ 0.13). 따라서 네 관측을 모두 만족하는 설정은 "측벽 미끄럼 + 캡 하중 비전달" 하나이고 접합은 둘을 실패한다(Table 3). 정량으로는 패드 10의 가열 기울기가 40 % 작고 방위 비(0.41 vs 0.64)가 맞지 않으며, 두께 규칙은 기록을 본 뒤 설계됐다. imec·NYCU 돌출은 같은 미끄럼 설정에서 1.7–3.5배 과대예측한다. 계면 상태는 공정별 입력이며 ST/Leti 이완은 후보 가설이다.
 
-**3.4 300 nm 공정창: 어닐이 아니라 <111> 꼬리가 정한다.** 탄성 항(b = 0.69, 0.54 µm 테스트 비의 범위 0.60–1.0로 반복)과 식 (1)(방위 항 포함)의 단순합으로, 상·하 방위(구면 균일)와 recess(패드당 N(2.5, 0.5²) nm[10]) 2 × 10⁵ 쌍에 대해 P_contact를 계산했다(Fig. 4). 청정 표면(표준 접합 전 세정)에서 창은 250 °C × 2 h 또는 300 °C × 30 min부터 열리고, 350 °C 이상은 5 min이면 충분하다. 불확실 집합 b × τ₀{20, 60, 100 s} × Q{20.7, 15}에서 바뀌는 셀은 경계 3개뿐이며, 권고 레시피는 b 전 범위에서 같다(탄성 항은 총 돌출의 ~8 %). 표면 산화(s_ox 0.45)는 창을 한 단계(50 °C 또는 한 시간 등급) 좁힌다. 같은 계산을 recess 평균에 대해 풀면 CMP에 돌려줄 허용 사양이 나온다(Fig. 5): 250 °C × 2 h에서 recess 합 ≤ 7.5 nm, 300 °C × 30 min에서 ≤ 9 nm, 350 °C 이상에서 ≤ 11.5 nm(산화 표면은 절반). 인자 순위(창에서 바뀌는 셀 수, Fig. 6a)는 지배 기구(확산 off: 9/15) ≫ 확산 동역학 τ₀(2) ≈ <111> facet(2) ≈ 라이너 접촉각(2) > 표면 상태(3, 산화 쪽) > recess 평균·산포(0)·b(0) 순이다. 방위는 탄성 항(폭 4 %)이 아니라 확산 항을 통해 들어오며, 총 돌출의 방위 폭은 0.30 µm에서 11 nm(탄성 0.03 nm)이다. <111> 근방 패드(f < 0.5, 전체의 13 %)는 bulge-out이 작아 최적 어닐에서도 미접촉 쌍이 ≈1.4 × 10⁻³(청정, 250 °C 2 h 3.4 × 10⁻³) 남는다(Fig. 6b). 꼬리 모양에 대한 민감도: lagging 10 %를 전부 완전 facet으로 두면 미접촉 2–4 %가 되어 P ≥ 0.99 셀이 하나도 남지 않는다 — 즉 300 nm의 P ≥ 0.99 창은 어닐이 아니라 <111> 꼬리가 정하며, 대립 Cu로는 어닐을 늘려도 하한을 못 없앤다. 미세결정 Cu로 꼬리를 없애면(f ≡ 1) 하한 0, 창 11/15[3]. 데이지체인으로 환산하면(독립 링크 가정) 대립 Cu는 ≈ 500 링크에서 수율 50 %에 이르는 체인 길이 상한을 가지며 fg-Cu는 그 상한이 없다 — 검증 가능한 예측(탐색). 같은 계산에서 2025–26년 접합기의 오버레이(σ ≈ 10–12 nm)는 300 nm 패드의 미접촉에 ≤ 10⁻⁵만 기여하므로 수율 한계 인자는 오버레이에서 방위로 옮겨간다. 접촉 후 연결 단계(2D 축대칭 Cu–Cu 마찰 접촉, 등방 소성)에서는 300 nm·350 °C·recess 1–2 nm에서 접촉면적 분율 0.95–1.0, 평균 접촉압력 317–403 MPa로 재결정의 필요조건을 만족하나 접합의 증명은 아니다.
+**3.4 방위를 모르는 300 nm 공정창.** 탄성 항(b ∈ {0.60, 0.69, 0.93, 1.0}; 0.54 µm 테스트 비)과 식 (1)의 단순합으로, 상·하 방위(구면 균일 가정)와 recess(패드당 N(2.5, 0.5²) nm[10])에 대해 P(m ≥ 0)를 계산하고 f(ω) 4종 × b × τ₀{20, 60, 100 s} × Q{20.7, 13.4}의 모든 조합을 겹쳤다(Fig. 4). 청정 표면에서 (A) 탄성만으로 닫히는 셀은 없고, (B) 모든 조합에서 P ≥ 0.99인 셀은 250 °C 2 h, 300 °C 30 min·2 h, 350·400 °C 전 시간(9셀), (C) 판정이 갈리는 셀은 200 °C 30 min·2 h, 250 °C 5·30 min, 300 °C 5 min(5셀)이다. 산화 표면은 (B)가 5셀로 줄어 한 단계 높은 열예산이 필요하다. 최악 방위 최소 여유(방위 분포 가정 제거)는 f(0)이 정한다: f(0) = 0이면 최악 쌍의 여유는 탄성 단독(400 °C 30 min에서 −4.9 nm)과 같아 어떤 어닐로도 닫히지 않고, f(0) = 0.25이면 300 °C 2 h, 350 °C 30 min 이상에서 닫힌다. 허용 recess(패드당, 청정)는 확률 기준 3.5–9 nm, 최악 방위 기준 0.5–0.9 nm(f(0) = 0) 또는 2.4–3.6 nm(f(0) = 0.25)다(Fig. 5). 두 기준의 4–8배 차이가 "방위 분포·꼬리 가정이 사 주는 여유"다. 상·하 방위가 같은 순위로 짝지어지면 P가 0.964까지 떨어진다(의존성 민감도). 인자 순위는 지배 기구 ≫ 확산 동역학 ≈ 방위 꼬리 ≈ 라이너 접촉각 > 표면 상태 > recess 산포·b이다(Fig. 6). 탄성 항의 방위 폭은 기존 5방향 계산에서 4–5 %로 작다(방향 2자유도 전수 계산은 후속 과제). 연결 단계 접촉 FEM(2D 축대칭, 등방 소성)은 접합 계면에서 300 nm·350 °C·recess 1–2 nm에 접촉면적 분율 0.95–1.0을 주지만, 이 모델은 접합 설정에서 두께 효과를 재현하지 못했으므로 조건부 결과다.
 
 ### IV. 한계와 결론
 
-Table 3에 모델 부분별 상태를 정리했다. 한계: (1) 0.54 µm 탄성 오차 +46 %의 원인은 원 데이터(Okudur 2017[11]) 부재로 미상이며, 결정 민감도 시험에서 산화 표면 경계 2셀만 영향을 받았다. (2) 300 nm 돌출 실측은 없어 300 nm는 예측이다(확산 항은 같은 크기에서 ≥250 °C 실측 점검). (3) 200 °C 확산 동역학과 미세구조(도금 후 어닐 유무) 변수가 모델에 없다. (4) 연결 단계 접촉 FEM은 Lhostis[12]의 패드 두께 효과를 재현하지 못한다. (5) 오버레이는 범위 밖이다[1]. (6) 크리프·장시간 계면 완화는 미결이다.
-결론: 1 µm 아래에서 Cu 하이브리드 본딩의 접촉은 열탄성 팽창이 아니라 표면확산이 결정하며(전환 ≈0.7 µm), 레시피 변수는 어닐 온도·시간·표면 상태·라이너·결정 방위로 옮겨간다. 사전등록 V&V로 평가한 모델은 300 nm 패드에 대해 청정 표면 250 °C × 2 h 또는 300 °C × 30 min의 창, recess 허용 합 7.5–11.5 nm, 방위에 의한 미접촉 하한 10⁻³을 제시한다. 주장 수위는 "검증된 레시피"가 아니라 "검증 통과 범위의 탄성 모델 + 실측으로 점검한 확산 모델로 본 공정창 예측(불확실도 포함)"이다.
+Table 3에 모델 부분별 상태를 정리했다. 한계: (1) 0.54 µm 탄성 오차의 원인은 원 데이터(Okudur 2017[11]) 부재로 미상이다. (2) 300 nm 돌출 실측이 없어 300 nm 결과는 예측이다. (3) 확산 항은 사전등록 시험을 통과하지 못했고 적용 범위는 등크기·≥ 250 °C다; 200 °C 동역학과 Cu 이력은 모델 밖이다. (4) f(0)과 누적 0.1 % 아래 꼬리는 관측되지 않았다. (5) ST/Leti 계면 이완은 정성 관측 넷과 일관한 후보 가설이며 정량 불일치가 남는다. (6) 오버레이·크리프는 범위 밖이다.
+결론: 접합 계면에서 위·아래 탄성 돌출이 recess 합 5 nm를 닫는 한계는 약 0.7 µm(400 °C)이며, 300 nm에서 접촉은 표면확산에 의존한다. 방위를 모르는 조건에서 청정 표면 250 °C·2 h, 300 °C·30 min 이상은 관측과 일관된 모든 방위 함수·모델 불확실성에서 접촉 확률 0.99 이상을 유지하나, 최악 방위 보증은 정확히 <111>인 패드의 bulge-out 측정에 달려 있다. 주장 수위는 "검증 통과 범위의 탄성 모델 + 실측으로 점검한 확산 모델로 본 공정창 예측(불확실도 포함)"이다.
 
 ### References (영문)
 [1] S. Van Huylenbroeck et al., "Wafer-to-Wafer Hybrid Bonding Technology with 200nm Interconnect Pitch," in *Proc. IEEE ECTC*, 2026.
@@ -130,17 +134,19 @@ Table 3에 모델 부분별 상태를 정리했다. 한계: (1) 0.54 µm 탄성 
 | imec 0.54 µm, 100/200/300/400 °C (test) | 0.41/0.95/1.50/2.04 | 0.25/0.60/1.0/1.4 | 0.4 nm | ratio 0.61–0.69 at all T → **fail (athermal)** |
 | sliding control, 1 µm / 0.54 µm (test V4) | 3.66 / 4.84 | 2.1 / 1.4 | must fail | fails → sidewall bonded |
 
-**Table 3 Status of each model part.**
+**Table 3 Status of each model part (and the same-setting interface matrix).**
 | Part | Status | Evidence (commit) |
 |---|---|---|
 | Elastic u, ≥ 1 µm, bonded sidewall | validated (pre-registered) | 33a8f5c → B/Br runs |
-| Elastic u, 0.54 µm | not validated (+46 %, athermal); decision sensitivity OPEN (2 boundary cells, oxidised) | 2acfd92 / 5c1e819 |
-| Diffusion h_d, fixed form | not validated (2/17) | 9c6bc29 / 5fa0e05 |
-| Diffusion h_d, revision 1 (θ_eff) | not validated by rule (11/17); 10/10 at ≥ 250 °C, PPA-Cu | eb347c1 / 5221d33 |
-| Orientation amplitude f(ω) | exploratory round 2: IQR 10/17 reproduced | 6696562 / d722e67 |
-| Ayoub ε′zz | 3 µm sign agrees; 300 nm sign disagrees (interface hypothesis) | 63869bb / f7818ad |
-| Connection stage contact FEM | Lhostis thickness test failed twice; ratio test undetermined | 6696562 / dced86f / 46924cc |
-| 300 nm window | prediction with uncertainty | 80389d5 / 9dbd0c0 |
+| Elastic contact limit (u_t+u_b = R) | 0.70 µm at 400 °C, R 5 nm (imec data); 0.55/1.0 µm at R 3/8 nm | paper_results.json, boundaries.json |
+| Isotropic elastic surrogate C(h/w) | validated on 4 unseen geometries within 20 % (pre-registered) | 8194e62 → round_x2.json |
+| Elastic u, 0.54 µm | not validated (+46 %, athermal); liner hypothesis rejected | 2acfd92 / X30–X34 |
+| Contribution crossover (h = u) | prediction only (extrapolated, 0.74–2.45 µm by anneal) | boundaries.json |
+| Diffusion h_d | not validated (2/17, 11/17, DM2023 0/7); ≥ 250 °C PPA-Cu 5/5; scope equal-pad, ≥ 250 °C | 9c6bc29 / eb347c1 / db29b8e |
+| Orientation function f(ω) | exploratory: 4 variants consistent with readable quantiles; f(0) unobserved | docs/v2/diffusion_f_omega.md |
+| ST/Leti interface | bonded 2/4 qualitative observations; sliding + non-load-bearing cap 4/4; quantitative mismatch (pad 10 slope 0.60) | 83bf8e3 / a1f4668 |
+| imec/NYCU interface | bonded required (sliding 1.7–3.5× over-prediction) | V4 |
+| 300 nm window | prediction: 9 cells robust, 5 undetermined (probability); worst orientation set by f(0) | window_summary.json, f_omega_variants.json |
 
 ## 6. 서면 심사용(4쪽) 압축 지침
 - 요약 150자, 서론 2문단(문제 + 기여 3개), II는 식 (1)과 접촉 조건, V&V 분할 한 문단, Table 1 생략, III는 3.1(Fig. 2) · 3.2(Fig. 3) · 3.4(Fig. 4, Table 2 축약), IV 한계 4개 + 결론. Table 3는 6행으로.

diff --git a/docs/paper/corrections_v4.md b/docs/paper/corrections_v4.md
@@ -1,0 +1,34 @@
+# 제출본 정정 목록 v4 (2026-10-16) — Claude Science용
+
+원칙: 두 docx(`ieie2026f_proceedings_final.docx`, `ieie2026f_blind_final.docx`)를 초안 v4(`docs/paper/ieie2026f_plan_and_draft_ko.md` §1·§4·Table 3)로 다시 만든다. 아래는 현재 docx의 문단별 문제 목록(감독 감사 `docs/v2/supervision.md` §1.2 그대로)과 v4에서 추가로 바뀐 점이다.
+
+## A. 추가로 바뀐 것 (v4)
+1. 제목: "결정방위를 모르는 서브마이크론 Cu 하이브리드 본딩의 접촉 판정: 열탄성 접촉 한계와 표면확산을 고려한 300 nm 공정창의 사전등록 검증" / "Contact Prediction for Sub-Micron Cu Hybrid Bonding under Unknown Crystal Orientation: Elastic Contact Limit and a Pre-Registered Thermo-Elastic/Surface-Diffusion Process Window at 300 nm".
+2. 두 경계 구분: 탄성 접촉 한계 0.70 µm(400 °C, R 5 nm; 3/8 nm → 0.55/1.0 µm; 대리식 0.76 µm; 350/300/250 °C → 0.90/1.14/1.62 µm). 기여도 역전 = 외삽 예측 0.74 µm(250 °C 2 h)–2.45 µm(400 °C 2 h). 출처 `results/stage2/boundaries.json`.
+3. 계면: 같은 설정 평가표(초안 Table 3, `docs/stage2_v2_consistency_preregistration.md`). E70(미끄럼 폭 효과 0.35 vs 0.15), SC5/SC6(3 µm 미끄럼 −1.27/−1.23e-3).
+4. 확산: ≥ 250 °C PPA-Cu 5/5, 전체 8/9(이전 "10/10" 삭제); β = 1/4 2.3σ 배척; DM2023 0/7 → 적용 범위 등크기·≥ 250 °C.
+5. 방위 꼬리: "1.4 × 10⁻³" 삭제. f(ω) 4종 집합. 확률 기준 300 nm 청정 (B) 9셀 / (C) 5셀 / (A) 0셀; 최악 방위 기준은 f(0) 의존(0 → 닫히지 않음, 허용 0.5–0.9 nm/패드; 0.25 → 300 °C 2 h·350 °C 30 min 이상, 2.4–3.6 nm/패드). 확률 기준 허용 recess 3.5–9 nm/패드. 출처 `results/stage2/v2/f_omega_variants.json`, `docs/v2/diffusion_f_omega.md`.
+6. 데이지체인 상한(≈ 500 링크) 문장은 꼬리 가정 의존이므로 본문에서 빼거나 "f(ω) 꼬리 가정 시 0–9 × 10⁻³ → 체인 상한은 가정 의존"으로만.
+7. 그림: Fig. 2 → `results/figures/s2_boundaries.png`(두 경계, 외삽 음영), Fig. 4 → `results/figures/v2/three_region_map_0.30um.png`, Fig. 5 → `results/figures/v2/worst_margin_0.30um.png`. 기존 `s2_mechanism_transition.png` 제목은 "elastic contact limit"으로 재생성됨.
+
+## B. 현재 docx 문단별 수정 목록 (감독 감사 원문)
+
+### 1.2 수정할 주장 (파일 · 현재 문구 · 바꿀 문구)
+
+| # | 파일 | 현재 문구(인용) | 바꿀 문구 |
+|---|---|---|---|
+| 1 | draft L52; proceedings_final 단락 60; blind_final 단락 43 (제목) | "접촉 기구 전환과 300 nm 공정창 예측" / "Mechanism Transition and 300 nm Process-Window Prediction" | "탄성 접촉 한계와 300 nm 공정창 예측" / "Elastic Contact Limit and 300 nm Process-Window Prediction" |
+| 2 | proceedings_final 단락 4 (요약) | "접촉 기구는 recess 합 5 nm에서 약 0.7 µm를 경계로 표면확산으로 넘어가고" | "접합 계면 조건에서 위·아래 탄성 돌출 합이 recess 합 5 nm를 넘는 최소 폭(탄성 접촉 한계)은 약 0.7 µm이며, 확산 돌출이 탄성 돌출을 넘는 기여도 역전 폭은 {CROSSOVER}로 예측된다" |
+| 3 | draft L13 (§1 핵심 메시지 (1)) | "접합 계면 조건에서 접촉 기구는 패드 폭 ≈ 0.7 µm … 에서 열탄성→표면확산으로 넘어가고" | "접합 계면 조건에서 탄성 접촉 한계는 ≈ 0.7 µm(recess 합 5 nm; 3→8 nm에서 0.55→1.0 µm)이고, 기여도 역전은 {CROSSOVER}(예측)" |
+| 4 | draft L27, L81; proceedings 단락 23; blind 단락 10 | "3.1 열탄성 모델과 기구 전환" / "0.54 µm 실패 → 기구 전환(Fig. 2)" | "3.1 열탄성 모델과 탄성 접촉 한계" |
+| 5 | Fig. 2 캡션 (proceedings 단락 27, blind 단락 15) | "Mechanism transition with pad size: … crossover ≈ 0.7 µm" | "Elastic contact limit vs pad size: the elastic pair reaches the 5 nm recess sum at ≈ 0.7 µm (imec data, interpolation between 0.54 and 1.26 µm); diffusion/elastic crossover {CROSSOVER} (model prediction)" |
+| 6 | draft L92; proceedings 단락 43; blind 단락 30 (결론) | "접촉은 열탄성 팽창이 아니라 표면확산이 결정하며(전환 ≈0.7 µm)" | "접합 계면 조건에서 약 0.7 µm 아래는 탄성만으로 recess 합 5 nm를 닫지 못한다(실측 0.54·1.26 µm 사이 보간). 표면확산이 탄성보다 큰 영역은 {CROSSOVER}로 예측된다(실측 검증 아님)" |
+| 7 | blind 단락 3 (기여 ①) | "기구 전환 폭을 recess 조건부 규칙으로 정량화" | "탄성 접촉 한계 폭을 recess 조건부 규칙으로 정량화(3/5/8 nm → 0.55/0.70/1.0 µm)" |
+| 8 | draft L13·L17(기여 2); 보고서 §15 결론 문단; `stage2_lhostis_round2_preregistration.md` §4 판정 문단 | "ST/Leti 공정은 두 독립 관찰 … 모두 이완 계면을 가리킨다(held-out 폭 규칙 통과)" / "폭 효과는 접합 모델로, 두께 효과는 이완 계면으로 설명된다" | "ST/Leti 관측은 아직 단일 계면 설정으로 함께 평가되지 않았다: 폭 효과(held-out)는 접합 설정에서, 두께 효과와 Ayoub 300 nm 부호는 이완 설정에서 나왔다. 이완 설정의 폭 효과(E70)·3 µm 부호(SC5/SC6)가 계산되기 전까지 '이완 계면'은 후보 가설이다. 미끄럼 계산은 계면 박리를 의미하지 않는다" |
+| 9 | draft L13 (1), L16 기여 1 | "탄성 항은 구속 계수 C(h/w) 한 곡선으로 모든 공정·크기에 대해 ±20 %로 예측된다" | "등방(Hill) 탄성 돌출은 imec·NYCU 채택 적층의 미사용 기하 4개에서 C(h/w) 대리식이 ±20 % 안(X35–X38). 방위 대리식과는 별개" |
+| 10 | draft L139 (Table 3); 보고서 §13.3·§14 | "10/10 at ≥ 250 °C, PPA-Cu" / "250 °C 이상 PPA-Cu 전부 + ≤ 140 nm 패드 200 °C는 10/10" | "개정 1: ≥ 250 °C PPA-Cu 5/5, ≥ 250 °C 전체 8/9, 200 °C·D ≤ 140 nm 1/2" (재집계: `diffusion_validation_rev1.csv`) |
+| 11 | draft L13 (3), §3.4 | "대립 Cu 미접촉 하한 10⁻³–10⁻²" | "관측 분위수(≈ 1 %) 아래 꼬리 가정에 의존하는 값: 기준 f(ω) 1.4–3.4 × 10⁻³, 비관 변형 2–4 × 10⁻²(관측되지 않은 구간)" |
+| 12 | `stage2_diffusion_round3_preregistration.md` §1(b), draft §3.2 마스터 커브 문장 | "Mullins 스케일링(특성 길이 ∝ (Bt)^{1/4})에 따른 stretched exponential β = 1/4" | "β = 1/4는 시간 두 배 증가율 상한 2^{1/4} = 1.189를 갖는데, DM2026 200 °C 2 h→4 h 중앙값 비는 1.48 ± 0.20(400 nm)·1.50 ± 0.18(500 nm)로 상한을 1.5σ·1.8σ 넘는다(판독 오차만 반영). t^{1/4} 길이 법칙만으로 β = 1/4를 정당화할 수 없다" |
+| 13 | 보고서 §15 리뷰 행, draft §3.4 | "P ≥ 0.99 창은 <111> 꼬리 모양이 정함" | 유지하되 "f(ω)는 탐색 라운드 2(미검증); 완전 facet 분율(f = 0, 기준 1.5 %)과 lagging-tail 분율(h < 6.5 nm, 기준 8.3 %, 실측 ≈ 10 %)을 구분" 추가 |
+
+

diff --git a/docs/paper/claude_science_prompt_ko.md b/docs/paper/claude_science_prompt_ko.md
@@ -7,6 +7,13 @@
 ## 역할과 목표
 너는 이 연구의 논문 제작 담당이다. 저장소 `co-deep-hb`(main)에 있는 결과 파일과 문서만을 근거로, 2026 대한전자공학회 추계학술대회 **학부생 논문경진대회** 제출물 두 개와 그림 6장을 만든다. 마감 2026-10-19. 목표는 1차 서면(블라인드) 통과와 수상이다. 숫자·주장은 저장소 파일에서만 가져오고, 없는 숫자는 만들지 않는다. 불확실하면 "[확인 필요]"로 표시한다.
 
+## 2026-10-16 v4 정정 — 최우선 (아래 이전 갱신보다 우선)
+- 초안 `docs/paper/ieie2026f_plan_and_draft_ko.md`의 §1(v4)·§4(v4)·Table 3이 바뀌었다. **두 docx를 v4 본문으로 다시 만든다.** 문단별 수정 목록은 `docs/paper/corrections_v4.md`.
+- 0.7 µm는 '기구 전환'이 아니라 **탄성 접촉 한계**(u_t+u_b = recess 합). 기여도 역전은 외삽 예측(0.74–2.45 µm). 제목·요약·3.1·Fig. 2 캡션·결론의 '기구 전환/Mechanism transition'을 모두 바꾼다.
+- 계면: 네 ST/Leti 관측을 같은 설정으로 평가한 표(Table 3)로 서술. '폭은 접합, 두께는 이완'처럼 관측마다 다른 설정을 고르는 문장 금지.
+- 방위 꼬리: '1.4 × 10⁻³ 미접촉 하한'과 '라운드 2 f(ω)' 삭제. f(ω) 4종 집합, 확률 기준(9셀 유지/5셀 판정 갈림)과 최악 방위 기준(f(0) 의존)을 함께. β = 1/4 언급 시 2.3σ 배척 명시.
+- Fig. 4를 three-region map(`results/figures/v2/three_region_map_0.30um.png`)으로, Fig. 5를 확률 vs 최악 방위 허용 recess(`results/figures/v2/worst_margin_0.30um.png`)로 교체 권장. Fig. 2는 `results/figures/s2_boundaries.png`(두 경계) 또는 기존 그림 제목 수정.
+
 ## 2026-10-16 갱신 — 추가 결과(반드시 반영)
 - 초안 §1이 v3로 바뀌었다(핵심 메시지 네 결론: 전환 규칙+대리식, 계면 상태 = 공정 입력, <111> 꼬리가 창을 정함, Q_eff 13·적용 범위). `docs/stage2_baseline_report_ko.md` §15와 `docs/agents/*.md`, `results/stage2/{round_x2.json, lhostis_round2.json, diffusion_round3.json, window_sensitivity_review.json, agents/*.json}`을 읽어라.
 - 추가 그림 후보: Fig. 2(b) 구속 계수 C(h/w)(`results/figures/agents/constraint_factor.png`, X35–X38 통과점 포함), Fig. 3(d) 마스터 커브(`master_curve.png`), Fig. 6(c) 체인 수율(`yield_vs_chain_length.png`), 연결 단계 두께·폭 효과 표(라운드 2). 쪽수 안에서 Fig. 2(b)와 라운드 2 표를 우선.
@@ -15,7 +22,7 @@
 ## 반드시 먼저 읽을 파일 (순서대로)
 1. `docs/paper/ieie2026f_plan_and_draft_ko.md` — 기획, 핵심 메시지, 기여 3개, 절 구성, 그림·표 목록, 전문 초안, 참고문헌. **이 문서의 §1 핵심 메시지와 기여 3개를 그대로 쓴다.**
 2. `docs/stage2_baseline_report_ko.md` §13–§14 — 결과와 모델 부분별 검증 상태(검증 통과/실패/탐색 등급).
-3. 수치 원본: `results/stage2/paper_results.json`(기구 전환 크기, recess 허용 사양, 방위 하한, transition_vs_recess), `results/stage2/window_summary.json`(공정창·빗금 셀·인자 순위), `results/stage2/orient_diffusion_round2.json/.csv`(확산 항 적합·검증 점), `results/stage2/validation_rev1.csv`와 `results/stage2/adopted_rev.json`(탄성 학습·테스트), `inputs/dm2026_digitized.json`(DM2026 판독값과 오차), `results/stage2/diffusion_validation_rev1.csv`.
+3. 수치 원본: `results/stage2/paper_results.json`(탄성 접촉 한계 — JSON 키 이름 mechanism_transition은 유지되지만 의미는 '탄성 접촉 한계', recess 허용 사양, 방위 하한, transition_vs_recess), `results/stage2/window_summary.json`(공정창·빗금 셀·인자 순위), `results/stage2/orient_diffusion_round2.json/.csv`(확산 항 적합·검증 점), `results/stage2/validation_rev1.csv`와 `results/stage2/adopted_rev.json`(탄성 학습·테스트), `inputs/dm2026_digitized.json`(DM2026 판독값과 오차), `results/stage2/diffusion_validation_rev1.csv`.
 4. 양식(저장소 `docs/paper/templates/`): `논문양식.docx`(프로시딩, Double column 1–5쪽), `서면 심사용 논문 양식.docx`(논문지 양식 4쪽, 저자·소속 삭제), `논문 경진대회 안내.txt`. 현재 초안 docx: `docs/paper/ieie2026f_proceedings_draft.docx`, `docs/paper/ieie2026f_blind_review_draft.docx`(placeholder 포함; 네가 완성본으로 대체한다).
 5. 참고문헌 상세: `docs/REFERENCES.md`.
 
@@ -27,7 +34,7 @@ D. 체크리스트 보고: 쪽수, 모든 숫자의 출처 파일, 식별 문구
 
 ## 심사위원이 10초 안에 읽어야 하는 것 (글의 우선순위)
 1. 문제: 1 µm 아래에서 열탄성 팽창(패드당 ≈ 1 nm)으로는 CMP recess 합(≈ 5 nm)을 못 닫는다.
-2. 새로움 한 줄: **세 연구그룹 실측으로 사전등록 검증한 열탄성–표면확산 결합 모델**로 (a) 접촉 기구 전환 폭을 recess 조건부 규칙으로 정량화하고(recess 합 3/5/8 nm → 0.55/0.70/1.0 µm), (b) sub-µm에서 결정 방위의 효과가 탄성 항(4 %)이 아니라 표면확산 항(<111> facet, 폭 10배)을 통해 들어옴을 보여 Ayoub의 [111] 기준 recess 사양을 정정하고, (c) 300 nm 공정창·CMP recess 허용 합·방위 미접촉 하한·인자 순위를 불확실도와 함께 준다.
+2. 새로움 한 줄: **세 연구그룹 실측으로 사전등록 검증한 열탄성–표면확산 결합 모델**로 (a) 탄성 접촉 한계 폭을 recess 조건부 규칙으로 정량화하고(recess 합 3/5/8 nm → 0.55/0.70/1.0 µm), (b) sub-µm에서 결정 방위의 효과가 탄성 항(4 %)이 아니라 표면확산 항(<111> facet, 폭 10배)을 통해 들어옴을 보여 Ayoub의 [111] 기준 recess 사양을 정정하고, (c) 300 nm 공정창·CMP recess 허용 합·방위 미접촉 하한·인자 순위를 불확실도와 함께 준다.
 3. 신뢰성: ASME V&V 10 순서, 결과 보기 전 기준 커밋, 실패도 보고(Table 3).
 4. 한계를 숨기지 않음: 0.54 µm +46 %(원인 미상), 확산 항은 ≥ 250 °C에서만 실측 일치(200 °C 과소 = 보수적), 방위 항은 탐색 등급, 300 nm 돌출 실측 없음.
 

diff --git a/docs/stage2_baseline_report_ko.md b/docs/stage2_baseline_report_ko.md
@@ -292,3 +292,17 @@ DM2026: J. De Messemaeker et al., "Understanding Scaling and Temperature Limits 
 
 **결론 수정(§14 보완).** 핵심 문장에 "접합 계면 조건에서"를 붙이고, 방위 결론은 "P ≥ 0.99 창은 <111> 꼬리가 정한다"로 강화하며, 확산 항의 적용 범위를 "등크기 패드(cavity/pad ≥ 0.7), ≥ 250 °C"로 명시한다. 탄성 항은 대리식 C(h/w)로 임의 크기·유전체에 대해 ±20 %로 쓸 수 있다(사전등록 통과). 계면 상태는 공정 입력이며 세 데이터셋(imec·NYCU 접합, ST/Leti 이완)이 한 방향을 가리킨다(가설, 세 관찰과 일관).
 
+## 16. 정합성 라운드 (2026-10-16; 10/19 제출본 기준) — 유지 / 수정 / 추가
+
+**유지:** imec·NYCU 측벽 접합(V4); 탄성 모델 통과 범위(1 µm, 1.80 µm, 1.26 µm ≤ 200 °C); 0.54 µm 비열적 과대예측(라이너 가설 기각 포함); 등방 대리식 C(h/w) ±20 %(미사용 형상 4개, Hill, imec·NYCU 적층); Ayoub 3 µm 부호 일치; 확산 항 NOT VALIDATED·적용 범위; 결정 민감도 OPEN(청정 레시피 b 무관).
+
+**수정:**
+- 0.7 µm는 **탄성 접촉 한계**(u_t + u_b = recess 합)다. "기구 전환"이라는 표현을 모두 바꾼다. 기여도 역전(h_t + h_b = u_t + u_b)은 확산 항을 300 nm 밖으로 외삽해야 하므로 예측으로만: 250 °C 2 h 0.74 µm, 300 °C 30 min 0.77 µm, 350 °C 1 h 1.38 µm, 400 °C 2 h 2.45 µm(형태 A; 약한 크기 의존 형태 B는 µm 패드에서 수백 nm를 예측해 in-situ 실측과 모순). 300 nm에서는 두 형태 모두 확산 쌍이 탄성 쌍의 ≈ 20배(`results/stage2/boundaries.json`, `results/figures/s2_boundaries.png`).
+- 계면: 관측마다 다른 설정을 고르지 않는다. 같은 설정 평가(`docs/stage2_v2_consistency_preregistration.md`): 접합 2/4, 측벽 미끄럼 + 접합 캡 2/4(300 nm 부호 실패), **측벽 미끄럼 + 캡 하중 비전달 4/4**(정성). ST/Leti 이완은 후보 가설, 정량 불일치(패드 10 기울기 0.60, 방위 비) 유지.
+- 확산 "≥ 250 °C 10/10" → PPA-Cu 5/5, 전체 8/9. β = 1/4는 200 °C 시간 증가율(1.49 ± 0.13 vs 상한 1.189)로 2.3σ 배척 — 라운드 3 형태 선택의 오류로 기록.
+- 방위 꼬리: 라운드 2 f(ω)(V1)는 새로 읽은 하위 분위수와 불일치(rms 3.9 nm) → 공정창 본선에서 제외. "1.4 × 10⁻³ 미접촉 하한" 삭제. 일관 변형 4종(V2 계단, V3 경사, V4 바닥 0.25, V6 Fig. 5a형) 집합으로 대체.
+
+**추가(가벼운 분석, `docs/v2/diffusion_f_omega.md`):** 300 nm 청정, f 4종 × b × τ₀ × Q{20.7, 13.4}: (A) 탄성만 0셀, (B) 유지 9셀(250 °C 2 h, 300 °C 30 min·2 h, 350·400 °C 전 시간), (C) 판정 갈림 5셀, 닫히지 않음 1셀. 최악 방위 m_min은 f(0)이 정함 — f(0) = 0이면 탄성 단독(−4.9 nm, 400 °C 30 min)으로 어떤 어닐도 불충분, f(0) = 0.25면 300 °C 2 h·350 °C 30 min 이상 닫힘. 허용 recess(패드당): 확률 3.5–9 nm, 최악 0.5–0.9 nm(f(0) = 0) / 2.4–3.6 nm(0.25). 짝 의존성(같은 순위) P 0.964 — 민감도로만.
+
+**후속(브랜치 `v2-orientation`, 제출본과 분리):** 결정방위 2자유도·면내 회전·E_z 축약 검증과 방위 대리모델(300 nm, 접합/미끄럼, 154런). 결과는 그 브랜치의 `docs/v2_orientation_preregistration.md` §6.
+

diff --git a/docs/stage2_exploration_log.md b/docs/stage2_exploration_log.md
@@ -498,3 +498,9 @@
 
 ### 라운드 X2 결과 (2026-10-16; X30–X38; 규칙 8194e62)
 - 라이너 15/25 nm: u 0.54 µm 2.055 vs 2.039 nm → 효과 없음, 가설 **기각**(설명 몫 -0.02). 대리식 C(h/w): 4/4 ±20 % **통과**(C 1.01/0.49/1.16/1.16 vs 0.92/0.41/1.05/1.38).
+- 2026-10-16 14:35 **E70** (E) contact Lhostis width rule under SLIDING w0.11 um h0.22 r2 nm T400 SiO2 -> exit 1, wall 319 s, LS ok True; T25: Ac/A=0.000 p=0MPa; T400: Ac/A=0.669 p=435MPa; T25: Ac/A=0.669 p=435MPa
+- 2026-10-16 14:38 **SC5** (SC) S2-SC 3 um pad, Hill Cu, SLIDING sidewall, bonded cap, Ta 13 nm, mesh WA -> exit 0, wall 183 s, all_conv True; eps'zz 30 C -1.269e-03, 350 C +1.119e-03, slope(30-350) +7.463e-06; s_x/s_z(30) 225/44 MPa; u_ctr(400) 8.28 nm
+- 2026-10-16 14:41 **SC6** (SC) S2-SC 3 um pad, Hill Cu, SLIDING sidewall, NO cap, Ta 13 nm, mesh WA -> exit 0, wall 177 s, all_conv True; eps'zz 30 C -1.230e-03, 350 C +1.085e-03, slope(30-350) +7.236e-06; s_x/s_z(30) 175/0 MPa; u_ctr(400) 9.13 nm
+
+### 정합성 라운드 (2026-10-16; 규칙 83bf8e3)
+- E70(미끄럼 폭 효과) V 0.35 vs 0.15 → 통과; SC5/SC6(3 µm 미끄럼) −1.27/−1.23e-3 → 부호 일치. 같은 설정 평가: 접합 2/4, 미끄럼+접합 캡 2/4, 미끄럼+캡 비전달 4/4(정성). 두 경계 분리(탄성 접촉 한계 0.70 µm vs 기여도 역전 0.74–2.45 µm 외삽 예측). f(ω) 4종·β 배척(2.3σ)·확률 vs 최악 방위 창(docs/v2). 논문 초안 v4, corrections_v4.md. 방위 전수 계산은 브랜치 v2-orientation.

diff --git a/docs/stage2_diffusion_round3_preregistration.md b/docs/stage2_diffusion_round3_preregistration.md
@@ -65,3 +65,6 @@ h_d = s_ox · a · D_amp · f(ω) · g(t/τ), g = 1 − exp[−(t/τ)^β], τ = 
 | Fig.9 | 200/400 | 350 | 2 | 18.8 ± 2.2 | 19.1 | 4.7 | 통과 |
 
 **통과 4/7 → 개정 후에도 NOT VALIDATED.** 결론: 등크기 패드(DM2026, cavity/pad ≥ 0.7)에서 점검된 확산 항은 **불균등 패드(cavity/pad ≤ 0.5)로 전이되지 않는다**. 이는 DM2023·DM2026이 두 영역을 다른 거동으로 보고한 것과 일치하며, 우리 공정창(등크기 300 nm)의 적용 범위를 "cavity/pad ≥ 0.7(등크기 접합)"로 제한해야 함을 뜻한다. 라운드 3는 한계 명세로 보고한다. 램프 시간 포함 여부는 다음 사전등록 과제.
+
+## 7. 사후 점검 (2026-10-16): β = 1/4 선택의 문제
+stretched exponential의 두 배 증가율 g(2t)/g(t) ≤ 2^β는 β = 1/4에서 1.189가 상한이다. 저장소에 이미 있던 DM2026 200 °C 2 h→4 h 중앙값 비는 1.484 ± 0.198(400 nm 피치)·1.500 ± 0.175(500 nm), 결합 1.493 ± 0.131로 상한보다 2.3σ 크다(판독 오차만). 즉 라운드 3의 β = 1/4는 사전등록 시점에 이미 데이터와 양립하지 않았다(Mullins t^{1/4} 길이 법칙은 이 형태를 정당화하지 않는다). 지수형(β = 1, 상한 2)은 양립한다. 라운드 3 판정(0/7)은 기하 규칙 문제가 주원인이지만, 이 형태 선택 오류도 함께 기록한다(`docs/v2/diffusion_f_omega.md` §3).

diff --git a/docs/CHANGELOG.md b/docs/CHANGELOG.md
@@ -2,6 +2,13 @@
 
 Newest first. Every entry: what changed and why. Bug entries add what was wrong, how it was found, and how it was fixed.
 
+## 2026-10-16 — Consistency round (paper v4) and v2 orientation branch
+
+- Same-setting interface evaluation (E70, SC5, SC6; pre-reg 83bf8e3). Two boundaries separated (`src/stage2/stage2_boundaries.py`). f(ω) variant set and worst-orientation margin (`src/v2/f_omega_variants.py`). Supervisor audit (`docs/v2/supervision.md`). Draft v4 + `docs/paper/corrections_v4.md`.
+- `baseline.material_lines` accepts hkl tuples and in-plane angle `cu_angle` (existing decks unchanged).
+- Corrections: 0.7 µm renamed elastic contact limit; '≥250 °C 10/10' → 5/5 PPA, 8/9 all; '1.4e-3 floor' removed (came from an f(ω) inconsistent with the lower quantiles); β = 1/4 shown to contradict existing data (2.3σ).
+- Branch `v2-orientation`: 154-run orientation study (pre-reg 13a580f).
+
 ## 2026-10-16 — Agent rounds: review, diffusion r3, connection r2, X2, master curve, yield bridge, scaling collapse
 
 - **Connection round 2** (`docs/stage2_lhostis_round2_preregistration.md`, E64–E69): void-fraction metric V = (r_in/A)²; width rule (held-out) PASS, thickness rule PASS only with sliding (relaxed) interfaces → interface state is a process input (ST/Leti relaxed; imec/NYCU bonded). `baseline.build_contact_deck` gained `side="sliding"` (existing decks byte-identical).

diff --git a/docs/HANDOFF.md b/docs/HANDOFF.md
@@ -107,3 +107,4 @@ reproduce the numbers above exactly), then the first commit and push. See `docs/
 
 **Agent rounds (2026-10-16):** 7 forks + 3 pre-registered run sets. Connection round 2 E64-E69: width rule PASS (held-out), thickness rule PASS with sliding interfaces -> ST/Leti relaxed-interface hypothesis consistent with Ayoub sign + Lhostis thickness. Diffusion round 3 (DM2023 held-out): 0/7, revision 4/7 (exploratory) -> equal-pad term does not transfer to cavity/pad <= 0.5. X2: liner diagnostic rejected (u unchanged), surrogate C(h/w) test 4/4 within 20 %. Review response: window governed by <111> tail shape; claims conditional on bonded interfaces. Master curve Q_eff 13.4; yield bridge chain ceiling ~500 links. Report §15, paper draft §1 v3, Claude Science prompt updated. Claude Science figures already in docs/paper/figures/ (untracked here; owned by that session).
 
+**Consistency round (2026-10-16):** paper draft v4 (elastic contact limit vs crossover; same-setting interface matrix: only sliding + non-load-bearing cap satisfies all 4 ST/Leti observations; f(ω) variant set; probability vs worst-orientation windows; β=1/4 rejected). Corrections for the docx in docs/paper/corrections_v4.md (Claude Science rebuilds). Orientation study runs on branch v2-orientation (worktree ../co-deep-hb-v2).
